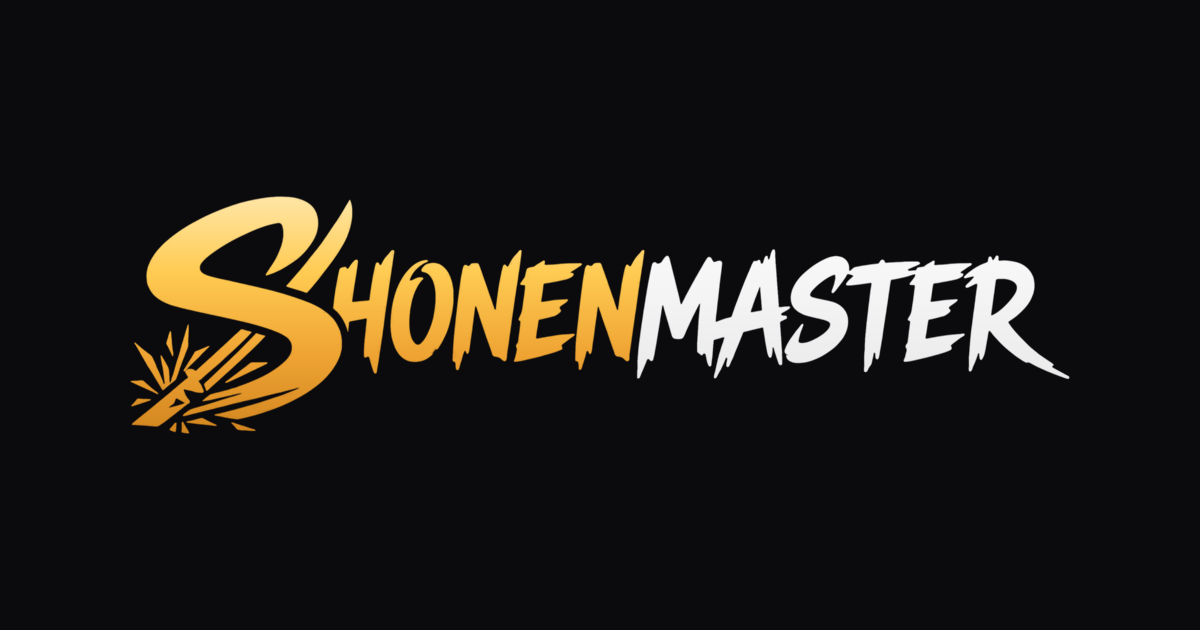
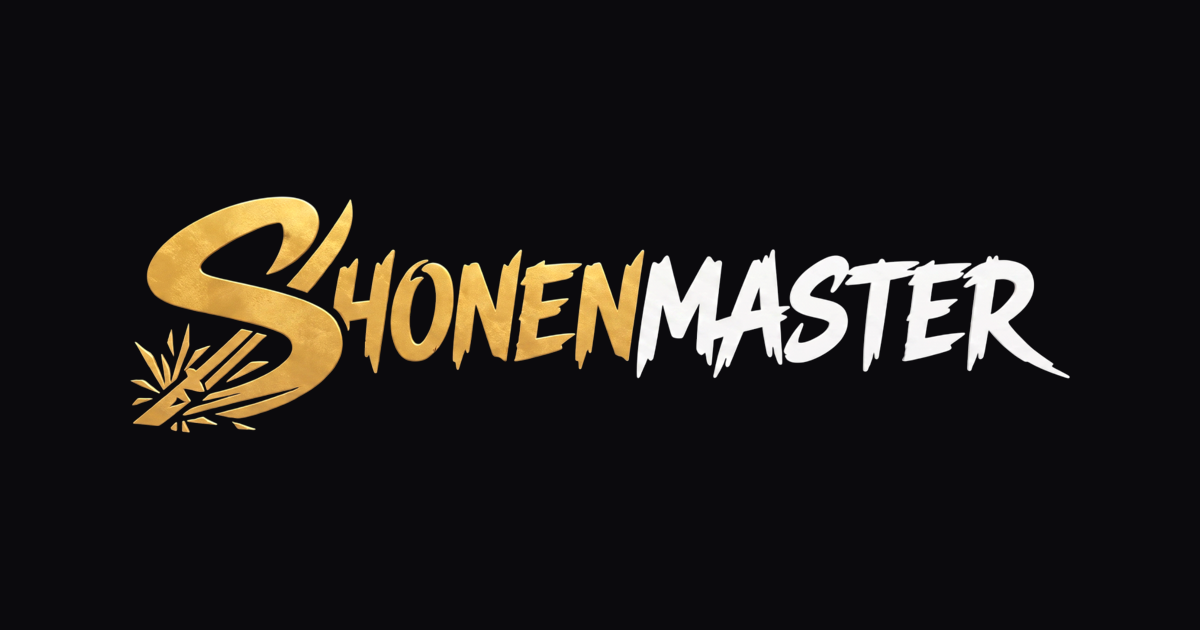
Identite : le logotype passe a la version texturee
smtext2.png remplace smtxt.png comme fichier maitre. Photoroom a mange l ombre
portee au detourage — c etait le seul defaut objectif de cette version, il
tombe. Reste le relief, discret, et un or texture plutot qu un aplat : le
degrade qu on cuisait n a donc plus lieu d etre, son script part avec.

Le fichier arrivait sous-expose comme le precedent : l or plafonnait a 216 sur
255 et le blanc a #e1e1e1. Un relevage de 1,16 sur l or et 1,10 sur le blanc le
remet au niveau du reste de la page. Le ton se reconnait a l ecart rouge/bleu
plutot qu a la saturation — l or garde cet ecart jusque dans ses faces
sombres, la ou une mesure de saturation les aurait pris pour du gris.

Le dessin fait 1990 px de large au lieu de 1986 ; l attribut du h1 suit, pour
que la place soit reservee avant meme que l image arrive.

diff --git a/src/html/home.html b/src/html/home.html
@@ -120,7 +120,7 @@
                 <!-- ── Accueil : titre + créer/rejoindre + stats ── -->
                 <section class="v2-hub" v-if="homeScreen === 'hub'">
                     <div class="v2-hub-left">
-                        <h1 class="v2-hero-title"><img src="titre-sm.webp" alt="ShonenMaster" width="1986" height="502" draggable="false"></h1>
+                        <h1 class="v2-hero-title"><img src="titre-sm.webp" alt="ShonenMaster" width="1990" height="502" draggable="false"></h1>
     
                         <!-- Stats générales -->
                         <div class="v2-bigstats">
